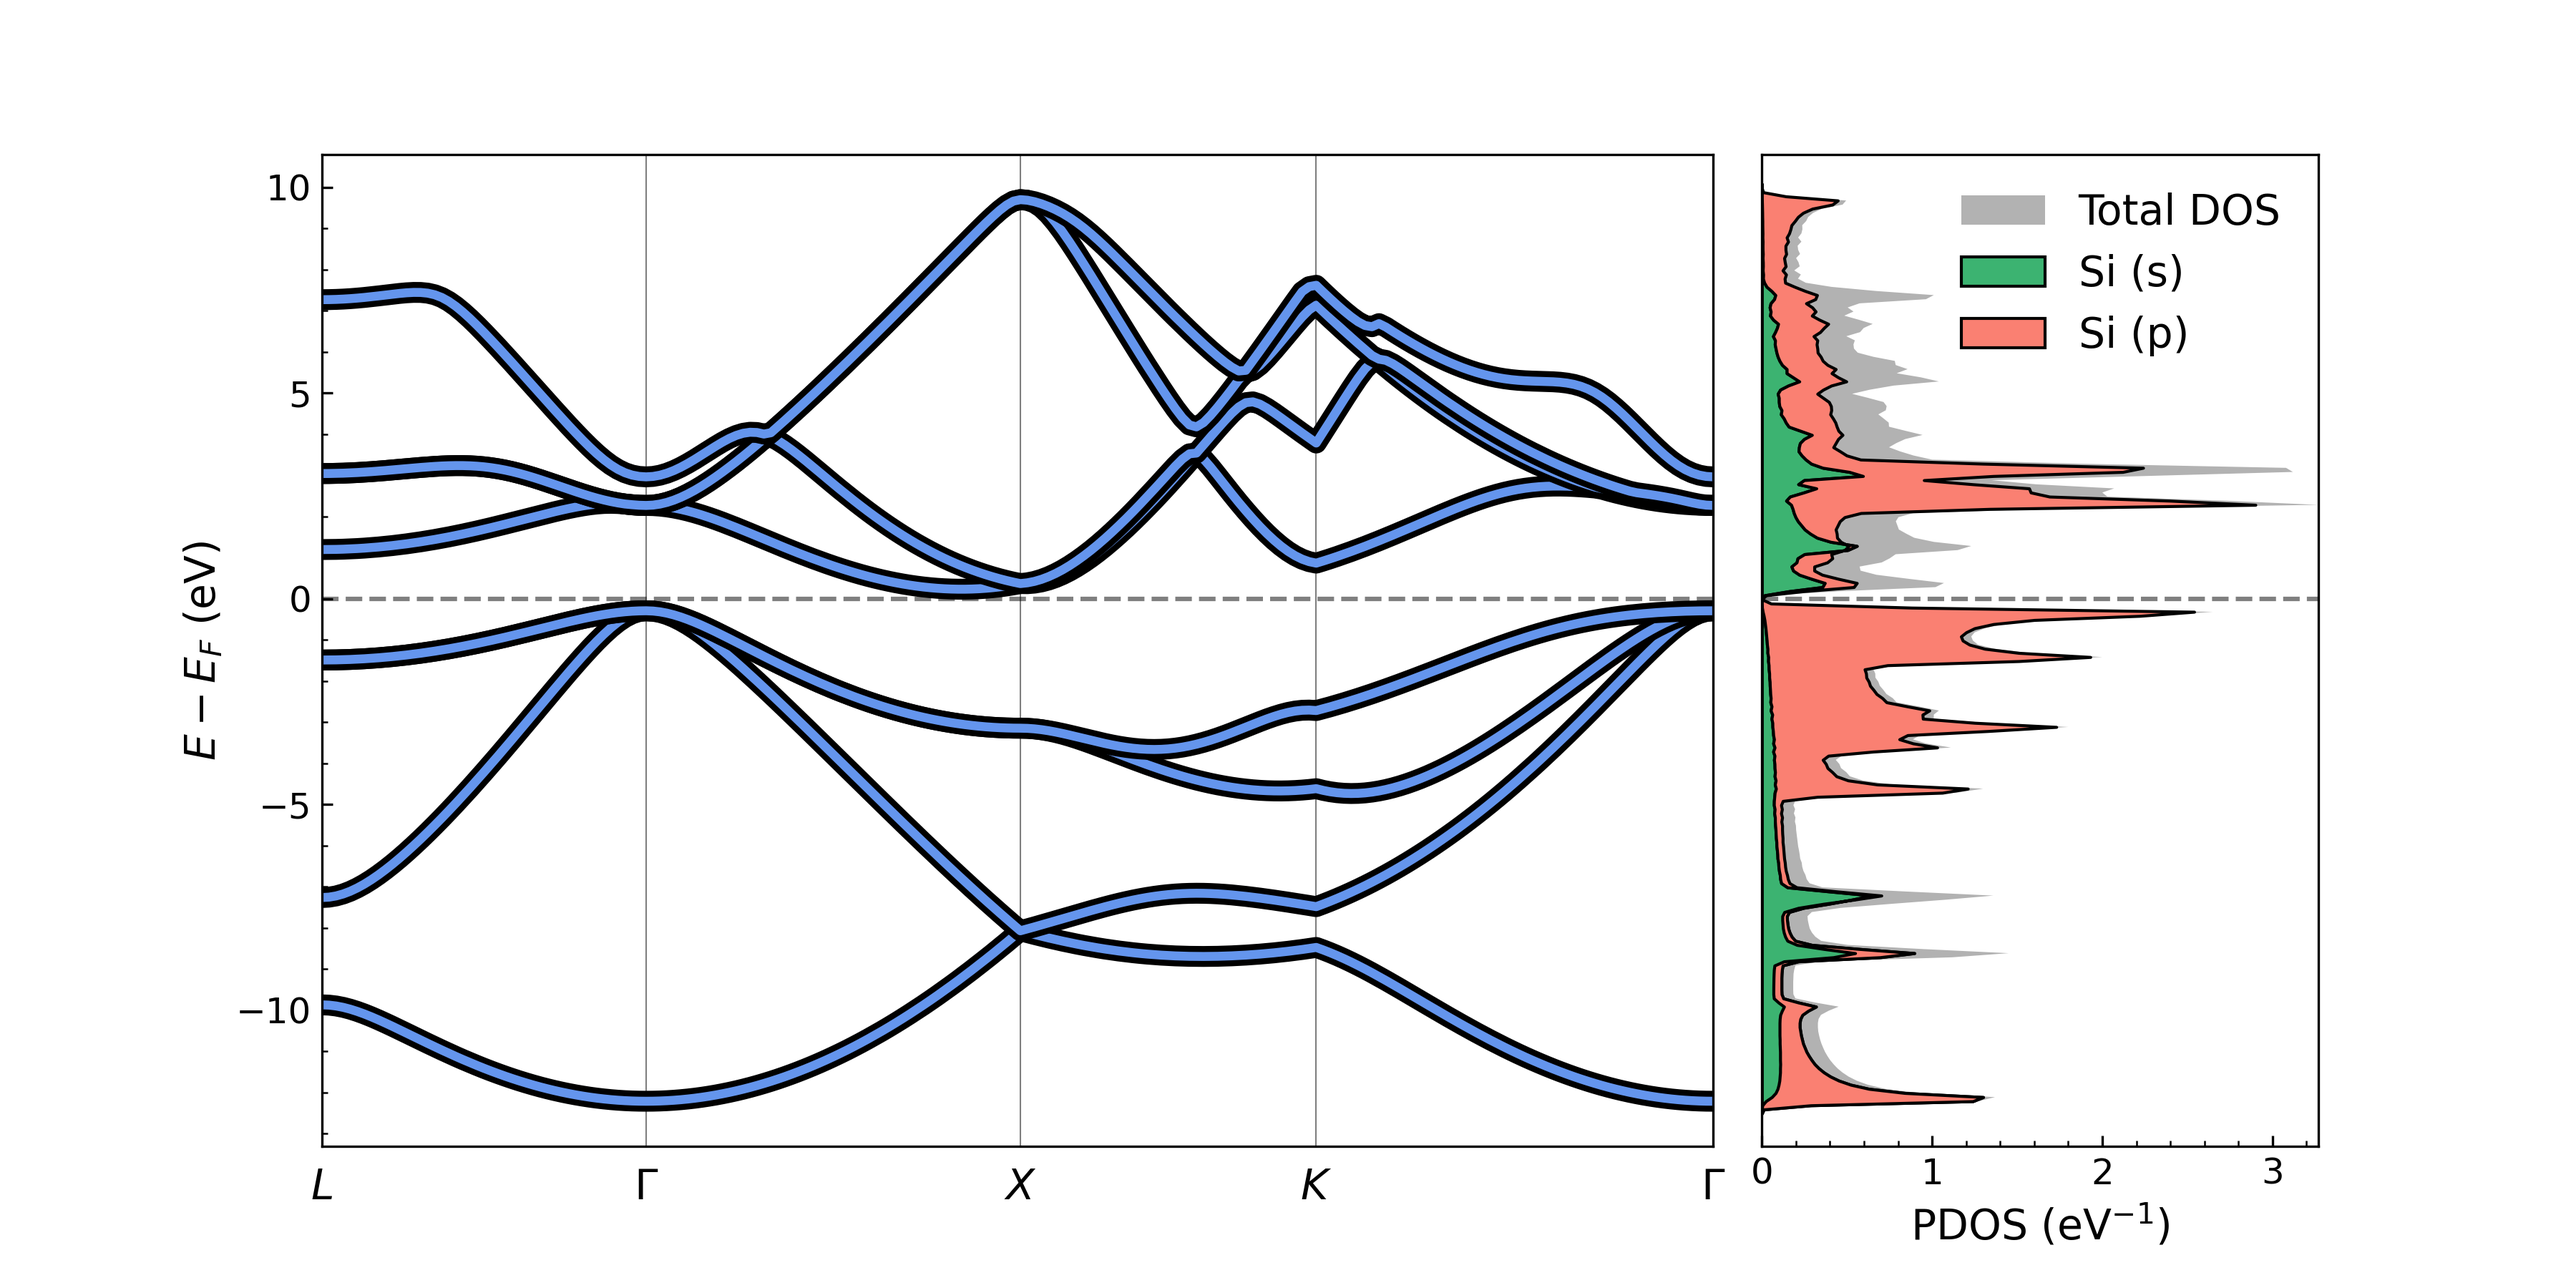
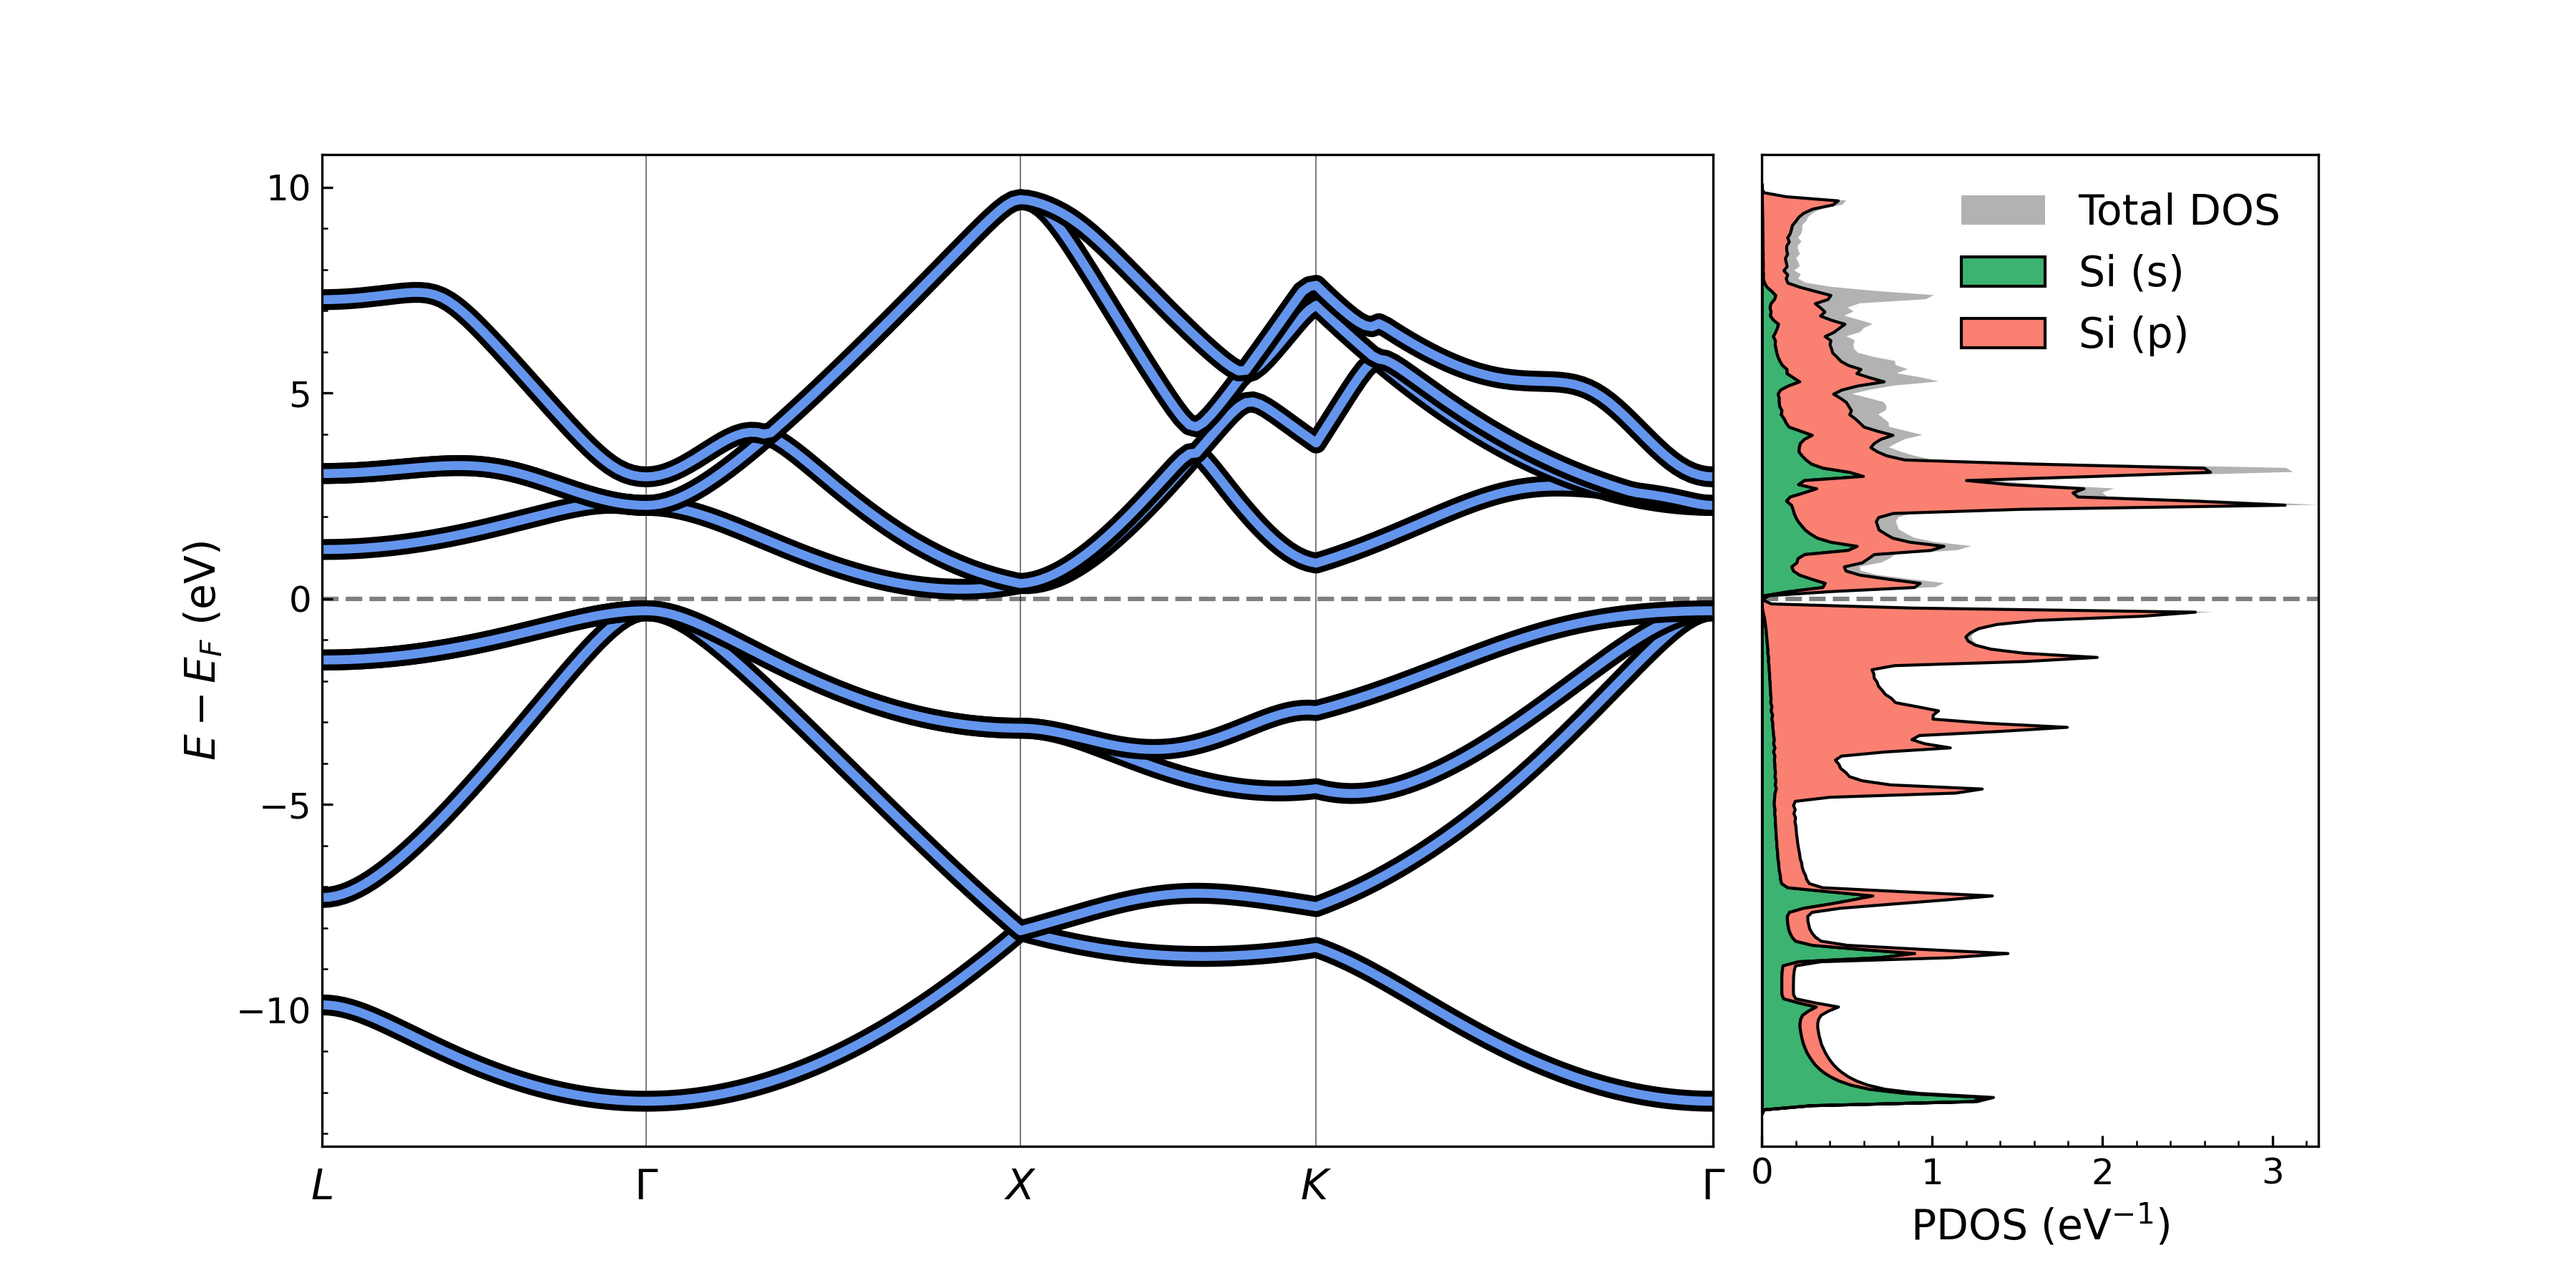
DAY2: Fix bug in plot_bands_pdos.py
Write the correct x1 and x2 curves;
update figure accordingly.

Changed region(s): [[0.6844, 0.5289, 0.7778, 0.8711], [0.6844, 0.2178, 0.8711, 0.4667]]

diff --git a/day2/exercise_1/plot_bands_pdos.py b/day2/exercise_1/plot_bands_pdos.py
@@ -277,14 +277,15 @@ def plot_bands_pdos(HSP, k, bands, pdos, total_dos, savefig=False, ylim=None):
             pdos_proj_p = pdos_projs[i]
 
     ax_dos.fill_betweenx(y=pdos_proj_s[:, 0],
-                         x1=pdos_proj_s[:, 1],
+                         x1=0.0,
+                         x2=pdos_proj_s[:, 1],
                          facecolor='mediumseagreen',
                          label=label_s,
                          edgecolor='black')
 
     ax_dos.fill_betweenx(y=pdos_proj_p[:, 0],
                          x1=pdos_proj_s[:, 1],
-                         x2=pdos_proj_p[:, 1],
+                         x2=pdos_proj_s[:, 1] + pdos_proj_p[:, 1],
                          facecolor='salmon',
                          label=label_p,
                          edgecolor='black')
